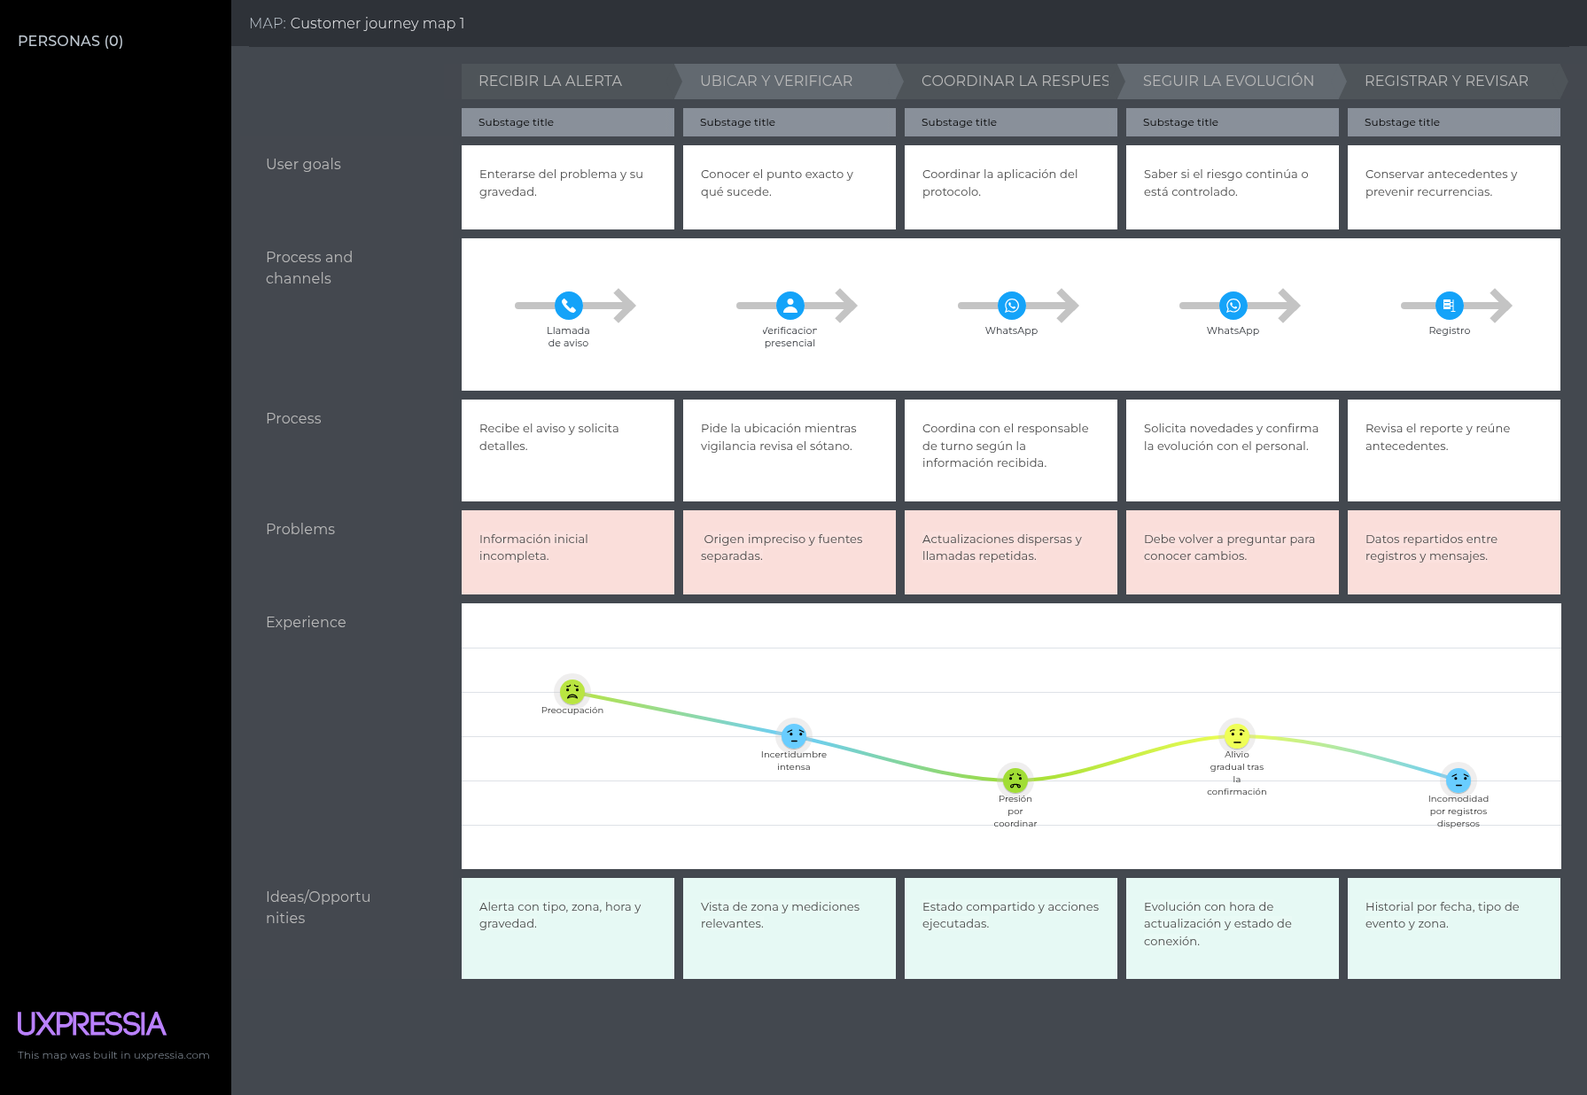
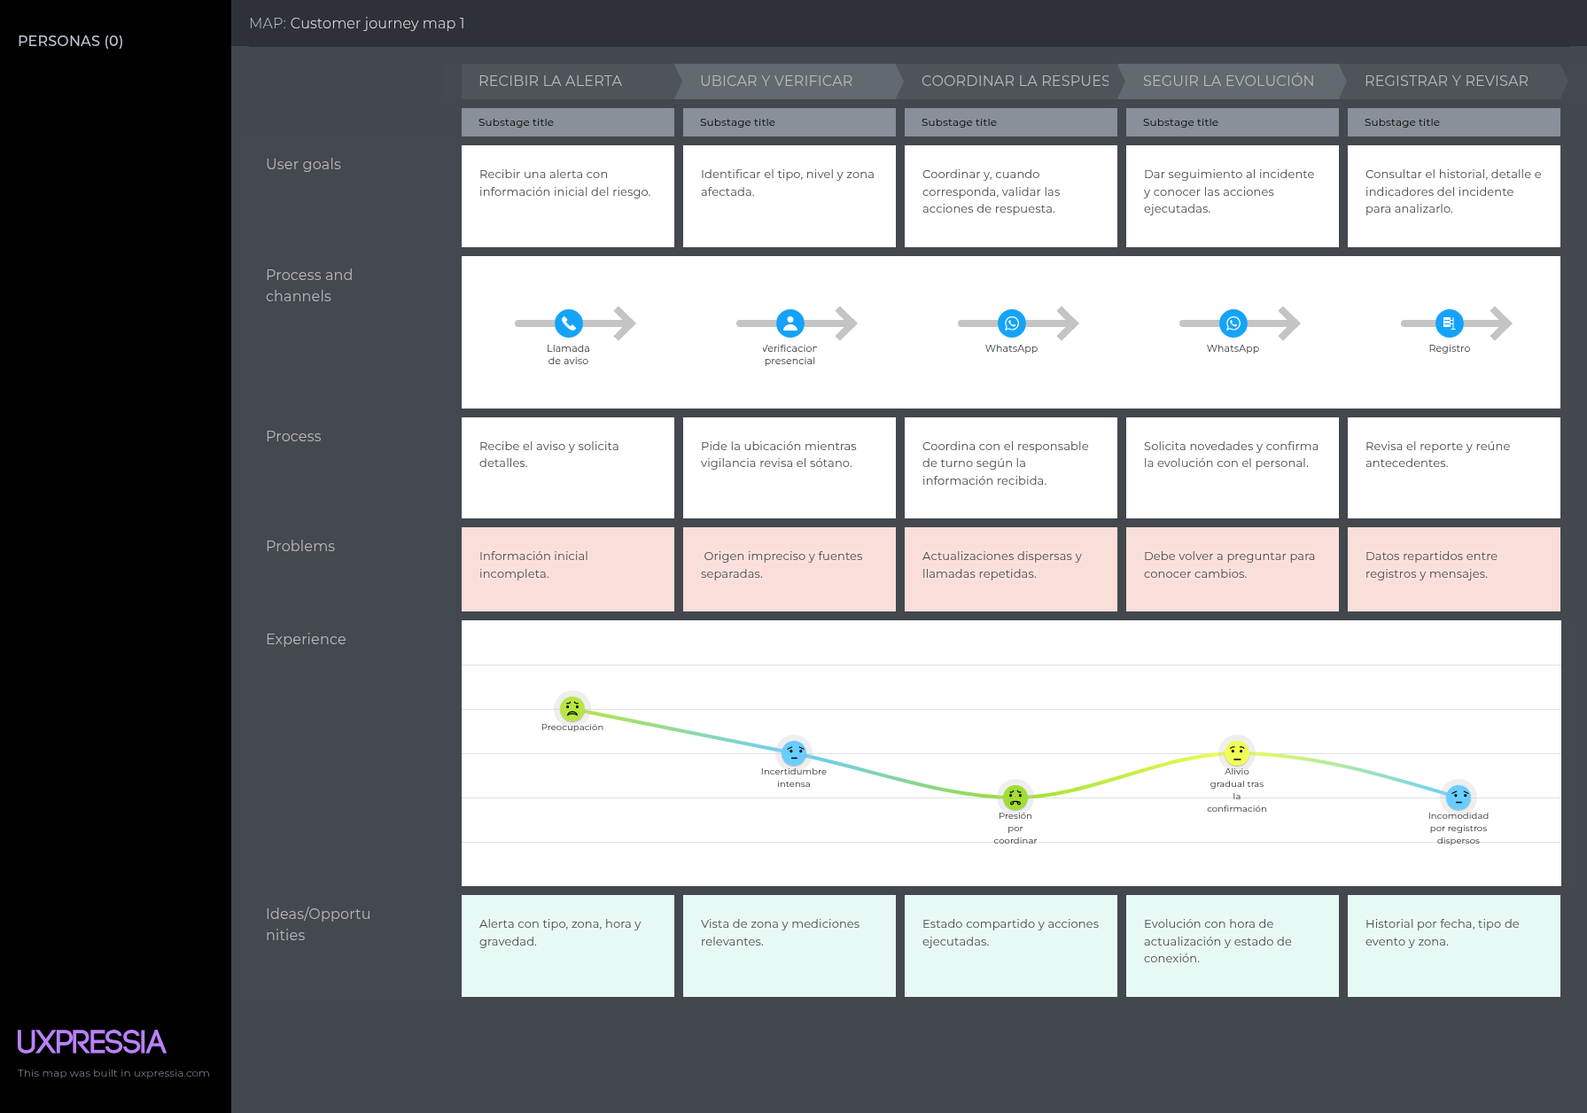
docs: add requirements elicitation and software design documentation with assets

diff --git a/docs/04-solution-software-design.md b/docs/04-solution-software-design.md
@@ -40,6 +40,289 @@
 
 ## 4.2. Tactical-Level Domain-Driven Design
 
+### 4.2.3. Bounded Context: Building Management
+
+#### 4.2.3.1. Domain Layer
+
+**Aggregates**
+
+`Building`
+
+Raíz del aggregate que representa una edificación de una organización. Mantiene su identificación, dirección, estado administrativo y zonas. Todas las modificaciones de una zona se realizan a través de Building.
+
+| Atributo | Tipo de dato | Visibilidad | Descripción |
+|---|---|---|---|
+| id | Guid | Private | Identificador interno e inmutable de la edificación. |
+| organizationId | Guid | Private | Organización a la que pertenece la edificación. |
+| buildingCode | BuildingCode | Private | Código único dentro de la organización. |
+| name | string | Private | Nombre de la edificación, entre 1 y 120 caracteres. |
+| description | string? | Private | Descripción opcional de hasta 500 caracteres. |
+| address | BuildingAddress | Private | Dirección física de la edificación. |
+| administrativeStatus | LocationAdministrativeStatus | Private | Estado administrativo ACTIVE o INACTIVE. |
+| zones | List\<Zone\> | Private | Zonas de la edificación; puede estar vacía al registrarse. |
+| createdAt | DateTimeOffset | Private | Fecha y hora UTC de registro. |
+| updatedAt | DateTimeOffset | Private | Fecha y hora UTC de la última modificación del agregado. |
+| version | long | Private | Versión del agregado, incluidos los cambios en sus zonas. |
+
+| Método | Tipo de retorno | Descripción |
+|---|---|---|
+| Register(...) | Building | Registra una edificación activa, inicialmente sin zonas. |
+| UpdateDetails(name, description, address) | void | Actualiza los datos descriptivos y la dirección. |
+| ChangeAdministrativeStatus(status) | void | Activa o desactiva administrativamente la edificación. |
+| AddZone(zoneCode, name, description, floorLabel) | Zone | Agrega una zona activa a una edificación activa y verifica que su código no se repita. |
+| UpdateZone(zoneId, name, description, floorLabel) | void | Modifica los datos de una zona perteneciente a la edificación. |
+| ChangeZoneAdministrativeStatus(zoneId, status) | void | Cambia el estado de una zona; su activación exige una edificación activa. |
+| IsAvailableForAssignment(zoneId?) | bool | Comprueba si la edificación y, cuando se indica, la zona están disponibles para asignar dispositivos. |
+
+**Entities**
+
+`Zone`
+
+**Descripción:** Área física de una edificación, como una cocina, un almacén o una sala técnica. Tiene identidad propia y pertenece a un único Building. No contiene dispositivos, mediciones ni reglas de detección.
+
+| Atributo | Tipo de dato | Visibilidad | Descripción |
+|---|---|---|---|
+| id | Guid | Private | Identificador interno e inmutable de la zona. |
+| zoneCode | ZoneCode | Private | Código único dentro de la edificación. |
+| name | string | Private | Nombre de la zona, entre 1 y 120 caracteres. |
+| description | string? | Private | Descripción opcional de hasta 500 caracteres. |
+| floorLabel | string? | Private | Referencia opcional del nivel, hasta 50 caracteres; por ejemplo, Piso 2 o Sótano 1. |
+| administrativeStatus | LocationAdministrativeStatus | Private | Estado administrativo propio de la zona. |
+| createdAt | DateTimeOffset | Private | Fecha y hora UTC de creación. |
+| updatedAt | DateTimeOffset | Private | Fecha y hora UTC de su última modificación. |
+
+El nivel es un dato descriptivo; esta propuesta no incorpora un agregado Floor ni una jerarquía de zonas. Zone no tiene repositorio independiente ni cambia de edificación. Si el área física se reemplaza, se registra otra zona y se desactiva la anterior para conservar sus referencias.
+
+**Value Objects**
+
+| Value Object (`record`) | Atributos | Validación y significado |
+|---|---|---|
+| BuildingCode | value: string | Entre 1 y 64 caracteres; letras ASCII, números, guion y guion bajo. Se eliminan espacios exteriores y se convierte a mayúsculas. |
+| ZoneCode | value: string | Aplica la misma normalización que BuildingCode; su unicidad se limita a la edificación. |
+| BuildingAddress | streetAddress: string, district: string, city: string, countryCode: string | Dirección de hasta 200 caracteres; distrito y ciudad de hasta 100; código de país de dos letras mayúsculas, por ejemplo PE. Todos los campos son obligatorios. |
+
+Los identificadores rechazan `Guid.Empty`. Los códigos, la organización y la pertenencia de una zona son inmutables. Las propiedades públicas de records en C# utilizan PascalCase; los campos de los contratos JSON se presentan en camelCase.
+
+**Enumerations**
+
+| Enumeración | Valores | Significado |
+|---|---|---|
+| LocationAdministrativeStatus | ACTIVE, INACTIVE | Ubicación habilitada o deshabilitada administrativamente para nuevas asignaciones. |
+
+Desactivar una edificación impide nuevas asignaciones tanto a ella como a sus zonas, pero conserva el estado propio de cada zona. Al reactivarla, solo quedan disponibles las zonas que conservan ACTIVE. No se eliminan asociaciones existentes ni se confirma ninguna acción sobre equipos físicos. Estos estados y las reglas de normalización son decisiones de diseño propuestas para desarrollar US24.
+
+**Commands**
+
+`organizationId` procede del contexto autorizado. `expectedVersion` corresponde siempre a la versión de Building, incluso al modificar una zona.
+
+| Command (`record`) | Datos |
+|---|---|
+| RegisterBuildingCommand | organizationId, buildingCode, name, description?, address |
+| UpdateBuildingDetailsCommand | organizationId, buildingId, name, description?, address, expectedVersion |
+| ChangeBuildingAdministrativeStatusCommand | organizationId, buildingId, administrativeStatus, expectedVersion |
+| AddZoneToBuildingCommand | organizationId, buildingId, zoneCode, name, description?, floorLabel?, expectedVersion |
+| UpdateZoneCommand | organizationId, buildingId, zoneId, name, description?, floorLabel?, expectedVersion |
+| ChangeZoneAdministrativeStatusCommand | organizationId, buildingId, zoneId, administrativeStatus, expectedVersion |
+
+**Queries**
+
+| Query (`record`) | Datos | Resultado |
+|---|---|---|
+| GetBuildingByIdQuery | organizationId, buildingId | Building? |
+| GetBuildingsQuery | organizationId, administrativeStatus?, page, size | PagedResult\<Building\> |
+| GetZonesByBuildingIdQuery | organizationId, buildingId, administrativeStatus?, page, size | PagedResult\<Zone\> |
+| GetZoneByIdQuery | organizationId, buildingId, zoneId | Zone? |
+
+**Services**
+
+| Interfaz | Método | Tipo de retorno |
+|---|---|---|
+| IBuildingCommandService | Handle(RegisterBuildingCommand) | Building |
+| IBuildingCommandService | Handle(UpdateBuildingDetailsCommand) | Building |
+| IBuildingCommandService | Handle(ChangeBuildingAdministrativeStatusCommand) | Building |
+| IBuildingCommandService | Handle(AddZoneToBuildingCommand) | Building |
+| IBuildingCommandService | Handle(UpdateZoneCommand) | Building |
+| IBuildingCommandService | Handle(ChangeZoneAdministrativeStatusCommand) | Building |
+| IBuildingQueryService | Handle(GetBuildingByIdQuery) | Building? |
+| IBuildingQueryService | Handle(GetBuildingsQuery) | PagedResult\<Building\> |
+| IBuildingQueryService | Handle(GetZonesByBuildingIdQuery) | PagedResult\<Zone\> |
+| IBuildingQueryService | Handle(GetZoneByIdQuery) | Zone? |
+
+`IBuildingRepository` declara el contrato de persistencia del agregado. `BuildingReadScope` representa las edificaciones y zonas visibles para el solicitante; `BuildingFilters` y `ZoneFilters` contienen los filtros de consulta. Estos contratos no dependen del framework web ni de clases internas de IAM. `PagedResult<T>` contiene Items, Page, Size, TotalElements y TotalPages.
+
+**Domain Events**
+
+| Evento | Se produce cuando |
+|---|---|
+| BuildingRegistered | Se registra una edificación. |
+| BuildingDetailsUpdated | Cambian sus datos descriptivos o dirección. |
+| BuildingAdministrativeStatusChanged | Cambia el estado administrativo de la edificación. |
+| ZoneAddedToBuilding | Se agrega una zona. |
+| ZoneDetailsUpdated | Cambian los datos descriptivos de una zona. |
+| ZoneAdministrativeStatusChanged | Cambia el estado administrativo de una zona. |
+
+Cada cambio efectivo incrementa una vez la versión de Building y genera un evento. Repetir valores existentes no produce un cambio adicional. El mensaje de integración contiene eventId, eventType, schemaVersion, organizationId, buildingId, aggregateVersion, occurredAt y una instantánea de la edificación con sus zonas. Los cambios de zona incluyen además affectedZoneId. La aplicación conserva el mensaje mediante una outbox para informar a los consumidores sin compartir tablas.
+
+#### 4.2.3.2. Interface Layer
+
+**REST Controllers**
+
+`BuildingsController`
+
+**Descripción:** Expone el registro y consulta de edificaciones y zonas. Construye comandos y consultas, aplica el contrato HTTP y transforma los resultados en recursos. Las rutas anidadas expresan que cada zona pertenece a una edificación.
+
+| Método | Ruta | Descripción | Respuesta exitosa |
+|---|---|---|---|
+| RegisterBuilding() | POST /api/v1/buildings | Registra una edificación. | 201, BuildingResource, Location y ETag |
+| GetBuildings() | GET /api/v1/buildings | Lista edificaciones; admite administrativeStatus, page y size. | 200, BuildingPageResource |
+| GetBuildingById() | GET /api/v1/buildings/{buildingId} | Consulta una edificación y sus zonas visibles. | 200, BuildingResource y ETag |
+| UpdateBuildingDetails() | PUT /api/v1/buildings/{buildingId}/details | Actualiza nombre, descripción y dirección. | 200, BuildingResource y ETag |
+| ChangeBuildingAdministrativeStatus() | PUT /api/v1/buildings/{buildingId}/administrative-status | Activa o desactiva la edificación. | 200, BuildingResource y ETag |
+| AddZoneToBuilding() | POST /api/v1/buildings/{buildingId}/zones | Agrega una zona a la edificación. | 201, BuildingResource, Location de la zona y ETag |
+| GetZonesByBuildingId() | GET /api/v1/buildings/{buildingId}/zones | Lista zonas; admite administrativeStatus, page y size. | 200, ZonePageResource |
+| GetZoneById() | GET /api/v1/buildings/{buildingId}/zones/{zoneId} | Consulta una zona de la edificación indicada. | 200, ZoneResource |
+| UpdateZone() | PUT /api/v1/buildings/{buildingId}/zones/{zoneId}/details | Actualiza los datos de una zona. | 200, BuildingResource y ETag |
+| ChangeZoneAdministrativeStatus() | PUT /api/v1/buildings/{buildingId}/zones/{zoneId}/administrative-status | Activa o desactiva una zona. | 200, BuildingResource y ETag |
+
+Los PUT y el POST de creación de una zona requieren `If-Match` con el ETag de Building, obtenido en GET /buildings/{buildingId}. Los comandos devuelven el agregado actualizado y su nuevo ETag; una zona no tiene versión independiente. La paginación comienza en cero, con tamaño predeterminado 20 y máximo 100, y utiliza un orden estable por createdAt e id. No se exponen operaciones DELETE.
+
+**Resources**
+
+| Resource (`record`) | Contenido |
+|---|---|
+| RegisterBuildingResource | buildingCode, name, description?, address |
+| UpdateBuildingDetailsResource | name, description?, address |
+| ChangeBuildingAdministrativeStatusResource | administrativeStatus |
+| AddZoneToBuildingResource | zoneCode, name, description?, floorLabel? |
+| UpdateZoneResource | name, description?, floorLabel? |
+| ChangeZoneAdministrativeStatusResource | administrativeStatus |
+| BuildingAddressResource | streetAddress, district, city, countryCode |
+| BuildingResource | id, organizationId, buildingCode, name, description?, address, administrativeStatus, zones, createdAt, updatedAt, version |
+| ZoneResource | id, buildingId, zoneCode, name, description?, floorLabel?, administrativeStatus, availableForAssignment, createdAt, updatedAt |
+| BuildingPageResource | items: List\<BuildingResource\>, page, size, totalElements, totalPages |
+| ZonePageResource | items: List\<ZoneResource\>, page, size, totalElements, totalPages |
+| ErrorResource | code, message, fieldErrors?, traceId |
+
+`availableForAssignment` se calcula con el estado de Building y Zone; no se almacena como columna. Los filtros de estado de zonas se refieren a su estado propio. Los recursos de entrada no aceptan organizationId, IDs generados, fechas ni versión como campos editables. Todas las salidas, incluidas las zonas anidadas y los totales, respetan el alcance autorizado.
+
+**Assemblers**
+
+| Assembler | Responsabilidad |
+|---|---|
+| RegisterBuildingCommandFromResourceAssembler | Construye RegisterBuildingCommand con el recurso y la organización autorizada. |
+| UpdateBuildingDetailsCommandFromResourceAssembler | Construye UpdateBuildingDetailsCommand con el recurso, buildingId y versión esperada. |
+| ChangeBuildingAdministrativeStatusCommandFromResourceAssembler | Construye ChangeBuildingAdministrativeStatusCommand. |
+| AddZoneToBuildingCommandFromResourceAssembler | Construye AddZoneToBuildingCommand usando la versión de Building. |
+| UpdateZoneCommandFromResourceAssembler | Construye UpdateZoneCommand con buildingId, zoneId y versión esperada. |
+| ChangeZoneAdministrativeStatusCommandFromResourceAssembler | Construye ChangeZoneAdministrativeStatusCommand. |
+| BuildingQueriesFromRequestAssembler | Convierte parámetros de ruta y consulta en las cuatro consultas del dominio. |
+| BuildingResourceFromEntityAssembler | Convierte Building y las zonas visibles en BuildingResource. |
+| ZoneResourceFromEntityAssembler | Convierte Zone y el estado de su Building en ZoneResource. |
+| BuildingPageResourceFromPageAssembler | Construye BuildingPageResource. |
+| ZonePageResourceFromPageAssembler | Construye ZonePageResource. |
+
+**Contrato de errores**
+
+| Código HTTP | Situación |
+|---|---|
+| 400 | Identificadores vacíos, campos, estados o paginación inválidos. |
+| 401 | Identidad ausente o inválida. |
+| 403 | Falta permiso para registrar o modificar la ubicación. |
+| 404 | Edificación o zona no encontrada dentro del ámbito visible, incluida una zona que no pertenece a la edificación indicada. |
+| 409 | Código duplicado; creación o activación de una zona en una edificación inactiva. |
+| 412 | La versión de Building ya cambió. |
+| 428 | Falta If-Match al modificar un agregado existente. |
+| 503 | No puede completarse una validación de autorización obligatoria. |
+
+
+#### 4.2.3.3. Application Layer
+
+`BuildingCommandServiceImpl`
+
+**Descripción:** Implementa IBuildingCommandService. Verifica permisos, carga el agregado, aplica sus reglas y persiste Building, sus zonas y el mensaje outbox en una transacción local.
+
+| Método | Descripción |
+|---|---|
+| Handle(RegisterBuildingCommand) | Comprueba permiso de creación en la organización y código disponible; registra la edificación activa con versión 1. |
+| Handle(UpdateBuildingDetailsCommand) | Verifica acceso y versión; actualiza nombre, descripción y dirección. |
+| Handle(ChangeBuildingAdministrativeStatusCommand) | Cambia el estado de Building sin eliminar zonas ni modificar sus estados propios. |
+| Handle(AddZoneToBuildingCommand) | Verifica acceso, versión y edificación activa; agrega una zona con código único dentro del agregado. |
+| Handle(UpdateZoneCommand) | Comprueba que la zona pertenece al Building y es editable por el solicitante; actualiza sus datos descriptivos. |
+| Handle(ChangeZoneAdministrativeStatusCommand) | Cambia el estado propio de la zona; exige Building activo para activarla. |
+
+Toda modificación de Zone incrementa la versión de Building. Una escritura compara expectedVersion con la versión almacenada y revierte la transacción completa ante conflicto. Las restricciones únicas de MySQL también protegen frente a registros simultáneos. Una edificación o zona inactiva puede conservar y corregir sus datos descriptivos.
+
+`BuildingQueryServiceImpl`
+
+**Descripción:** Implementa IBuildingQueryService sin modificar datos. Aplica los filtros y el alcance de IAM antes de paginar o calcular los totales.
+
+| Método | Descripción |
+|---|---|
+| Handle(GetBuildingByIdQuery) | Obtiene una edificación dentro de la organización y el alcance del solicitante. |
+| Handle(GetBuildingsQuery) | Lista las edificaciones visibles por estado administrativo. |
+| Handle(GetZonesByBuildingIdQuery) | Lista las zonas visibles de la edificación indicada. |
+| Handle(GetZoneByIdQuery) | Obtiene una zona comprobando su edificación, organización y alcance autorizado. |
+
+**Puertos de aplicación e integración**
+
+| Puerto | Métodos principales | Responsabilidad |
+|---|---|---|
+| IBuildingAccessGateway | RequirePermission(action, organizationId, buildingId?, zoneId?); GetReadScope(organizationId): BuildingReadScope | Valida permisos de IAM para la organización y ubicación. La creación de una edificación exige permiso a nivel de organización. |
+| IBuildingOutboxRepository | Append(message); FindPending(batchSize); MarkPublished(eventId); RecordFailure(eventId, nextAttemptAt) | Conserva los mensajes de integración y su estado de publicación. |
+| IBuildingEventPublisher | Publish(message) | Entrega mensajes a los consumidores mediante el transporte configurado. |
+
+`BuildingIntegrationEventMapper` construye el mensaje con la instantánea del agregado. `BuildingOutboxDispatcher` publica mensajes pendientes y reintenta los fallidos. Los consumidores deduplican por eventId y aplican únicamente versiones superiores a la conocida. Un fallo de publicación posterior al commit conserva el mensaje pendiente.
+
+**Coordinación con Device Management**
+
+Buildings conserva los identificadores de edificaciones y zonas, incluso cuando están inactivas. Esta entrega utiliza desactivación reversible; no incorpora retiro definitivo ni eliminación física. Devices consulta la fachada al registrar, reasignar o activar un equipo. Desactivar una ubicación bloquea futuras validaciones, pero no borra dispositivos ni altera mediciones o incidentes anteriores.
+
+La validación describe la disponibilidad en el momento de la consulta. Si una asignación y una desactivación se ejecutan simultáneamente en servicios separados, la consulta por sí sola no garantiza atomicidad entre contextos. La integración deberá revalidar o reconciliar esa asignación ante cambios concurrentes; no se interpreta una respuesta válida como una reserva permanente. Las instantáneas históricas conservadas por Monitoring e Incident Management no se reescriben al renombrar una ubicación.
+
+#### 4.2.3.4. Infrastructure Layer
+
+**Persistencia del agregado**
+
+`IBuildingRepository` / `RelationalBuildingRepository`
+
+**Descripción:** IBuildingRepository define el contrato del dominio. RelationalBuildingRepository guarda el agregado y consulta sus zonas en MySQL. No se publica un repositorio de escritura independiente para Zone.
+
+| Método del puerto | Tipo de retorno | Descripción |
+|---|---|---|
+| FindByIdAndOrganizationId(buildingId, organizationId) | Building? | Recupera Building con sus zonas dentro de una organización; la aplicación verifica además el alcance de acceso. |
+| FindPage(organizationId, filters, readScope, page, size) | PagedResult\<Building\> | Consulta edificaciones visibles y aplica el filtro de estado. |
+| FindZonesPage(organizationId, buildingId, filters, readScope, page, size) | PagedResult\<Zone\> | Consulta zonas mediante su relación con Building y aplica el alcance antes de paginar. |
+| FindZoneById(organizationId, buildingId, zoneId) | Zone? | Busca una zona que pertenezca a la edificación y organización indicadas. |
+| ExistsByOrganizationIdAndBuildingCode(organizationId, buildingCode) | bool | Detecta códigos de edificación repetidos. |
+| Save(building, expectedVersion?) | Building | Inserta o actualiza Building y sus zonas de forma atómica, con control de versión. |
+
+La unicidad del código de zona se verifica dentro del agregado y mediante UNIQUE(building_id, zone_code). Las consultas de zonas siempre se restringen por la organización del Building; no se acepta zoneId como prueba suficiente de acceso.
+
+**Adaptadores**
+
+| Componente | Puerto implementado | Descripción |
+|---|---|---|
+| IamBuildingAccessAdapter | IBuildingAccessGateway | Adapta los permisos y el alcance de IAM. |
+| RelationalBuildingOutboxRepository | IBuildingOutboxRepository | Persiste mensajes en la misma transacción y base de datos del agregado. |
+| BuildingEventPublisherAdapter | IBuildingEventPublisher | Publica mensajes mediante el transporte de integración elegido. |
+| BuildingPersistenceMapper | No aplica | Convierte Building, Zone y sus value objects hacia y desde registros relacionales. |
+
+
+#### 4.2.3.5. Bounded Context Software Architecture Component Level Diagrams
+
+![Diagrama de componentes de Building Management](../assets/images/chapter-04-solution-software-design/buildings-components.png)
+
+#### 4.2.3.6. Bounded Context Software Architecture Code Level Diagrams
+
+##### 4.2.3.6.1. Bounded Context Domain Layer Class Diagrams
+
+![Diagrama UML del agregado Building](../assets/images/chapter-04-solution-software-design/buildings-domain-model.png)
+![Diagrama UML de contratos de Building Management](../assets/images/chapter-04-solution-software-design/buildings-domain-contracts.png)
+
+##### 4.2.3.6.2. Bounded Context Database Design Diagram
+
+![Diagrama relacional de Building Management](../assets/images/chapter-04-solution-software-design/buildings-database.png)
+
 ### 4.2.4. Bounded Context: Device Management
 
 #### 4.2.4.1. Domain Layer
@@ -48,7 +331,7 @@
 
 `Device`
 
-**Descripción:** Raíz del agregado que representa un equipo IoT registrado en una organización. Controla sus características, capacidades y asignación física. Un mismo equipo puede medir varias variables y ejecutar acciones; por ello se utiliza una colección de capacidades en lugar de exigir que sea exclusivamente sensor o actuador.
+Raíz del aggregate que representa un equipo IoT registrado en una organización. Controla sus características, capacidades y asignación física. Un mismo equipo puede medir varias variables y ejecutar acciones; por ello se utiliza una colección de capacidades en lugar de exigir que sea exclusivamente sensor o actuador.
 
 | Atributo | Tipo de dato | Visibilidad | Descripción |
 |---|---|---|---|

diff --git a/docs/02-requirements-elicitation-analysis.md b/docs/02-requirements-elicitation-analysis.md
@@ -1328,7 +1328,6 @@ El caso del hotel relatado por Luis muestra un levantamiento de sistemas de dist
 
 ![User Journey Map de Luis Herrera Campos](../assets\images\chapter-02-requirements-elicitation-analysis\Customerjourneymap2.png)
 
-
 ### 2.3.4. Empathy Mapping
 
 Los mapas de empatía complementan los perfiles y recorridos al relacionar lo que cada persona necesita hacer con lo que ve, escucha, dice, piensa y siente. Su contenido sintetiza los guiones y explicita interpretaciones de diseño; no representa observaciones de campo realizadas por el equipo. Los bloques de dificultades y beneficios esperados permiten traducir esas perspectivas en necesidades que deberán validarse.
